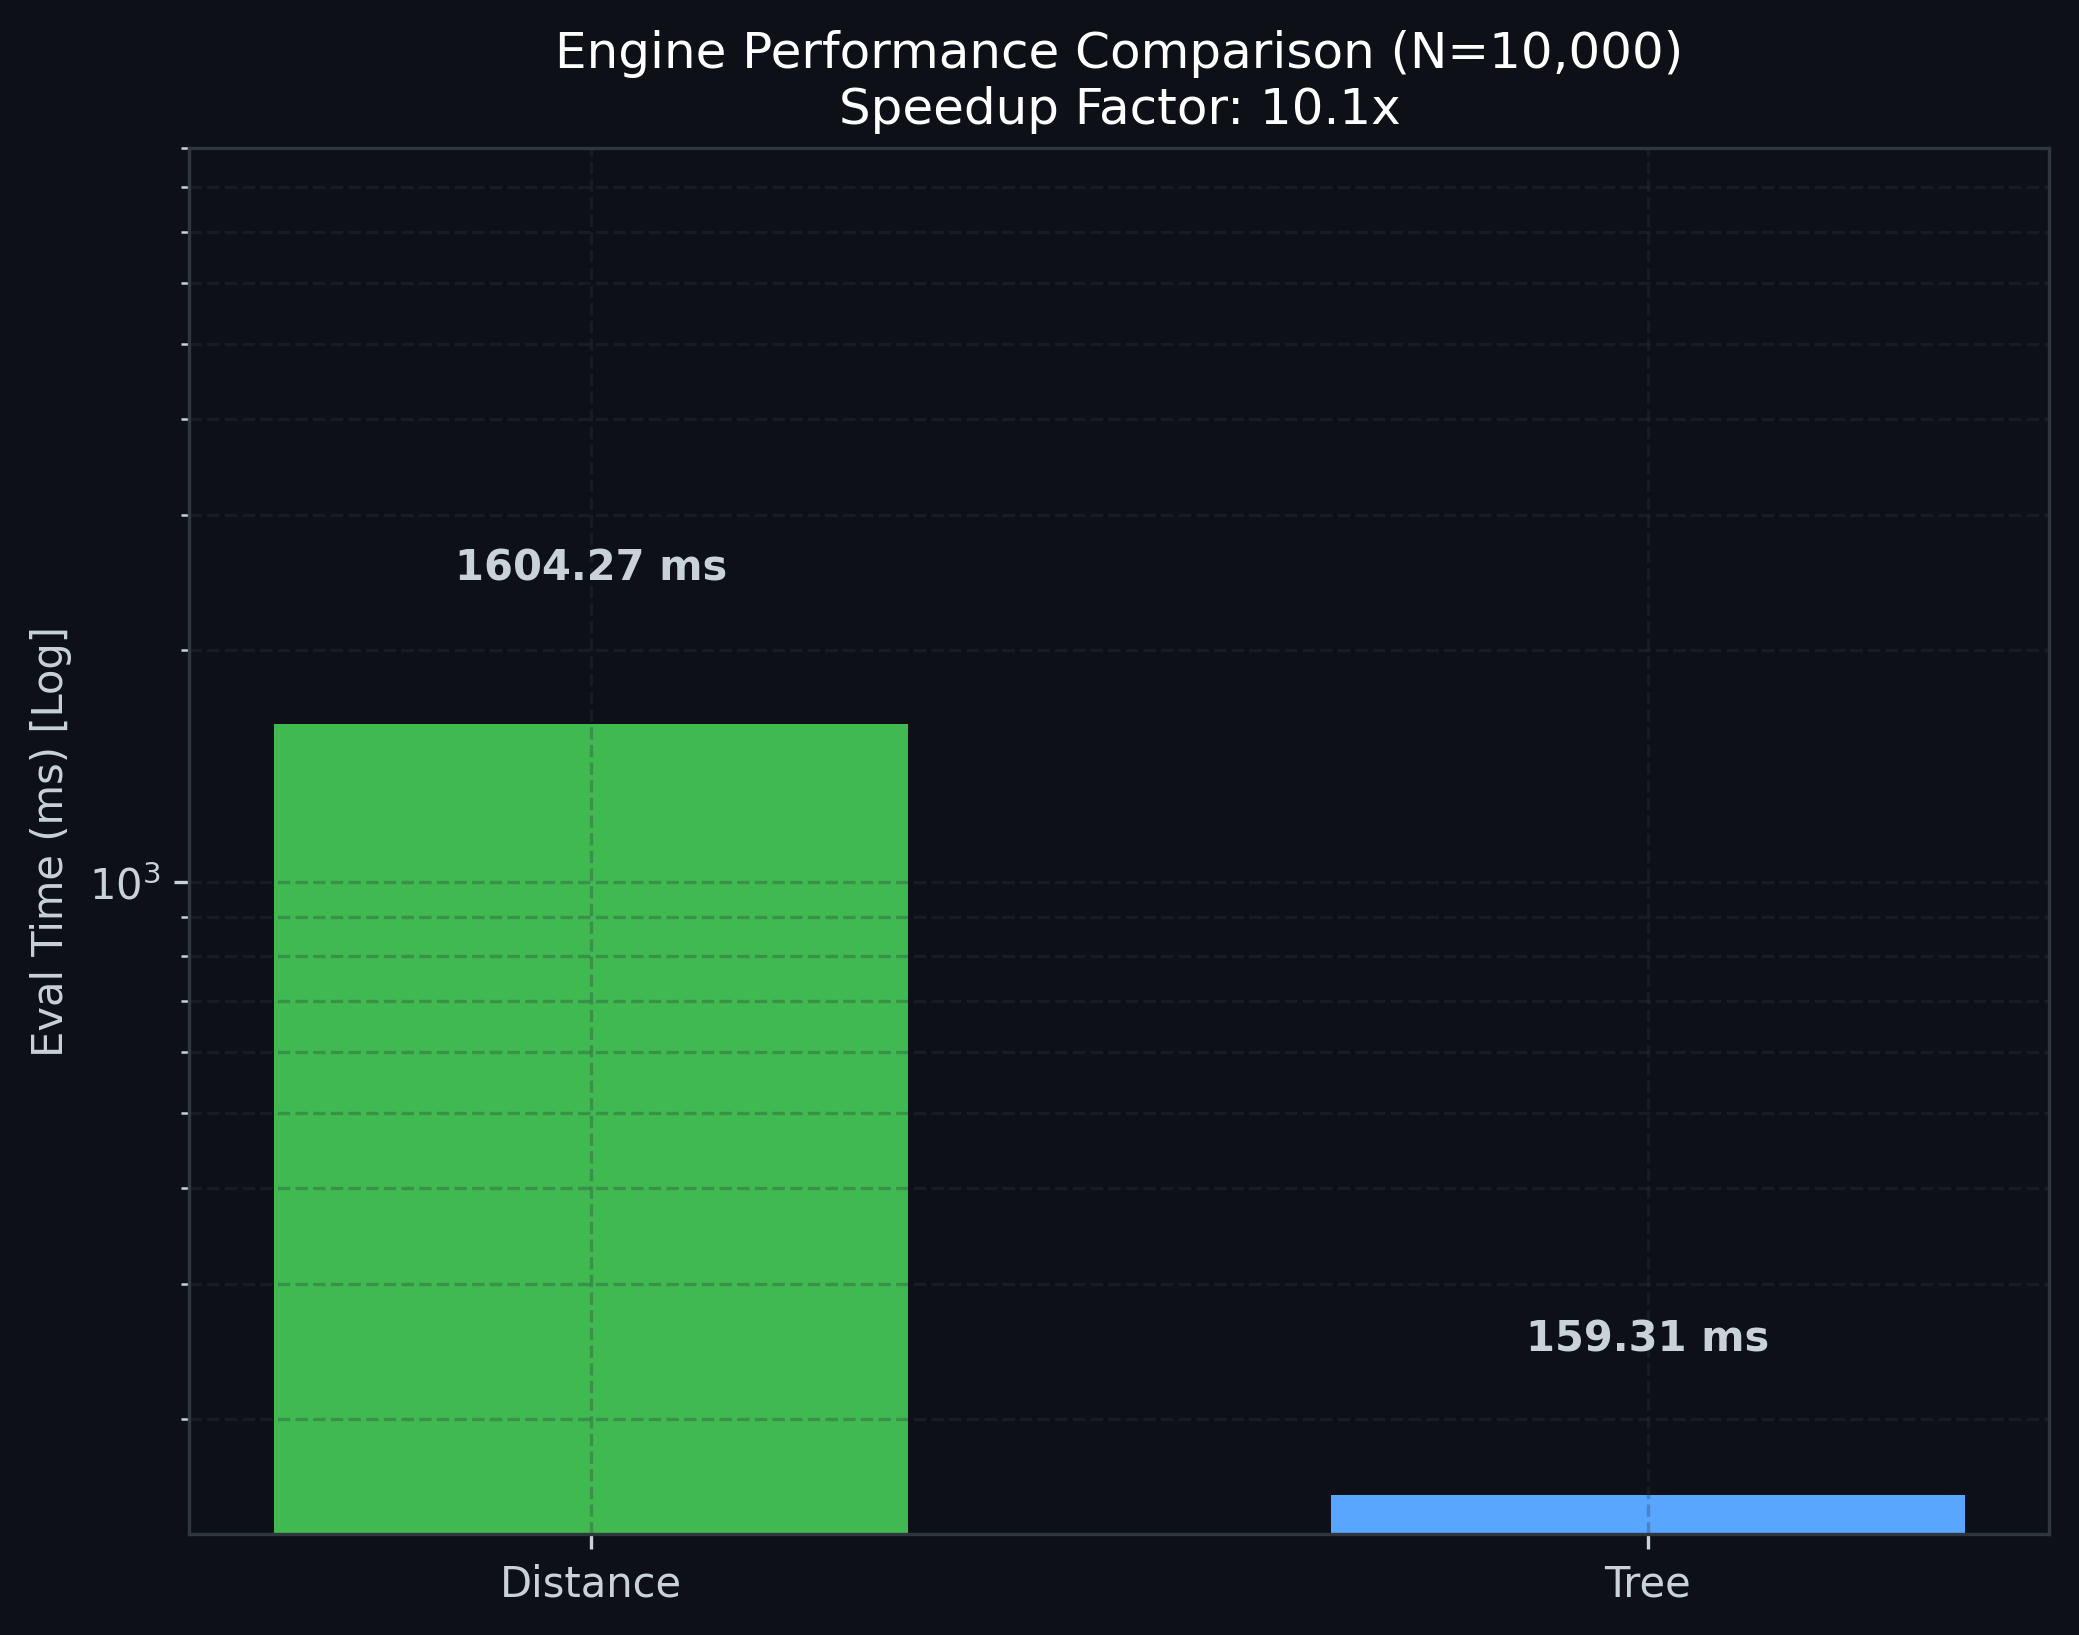
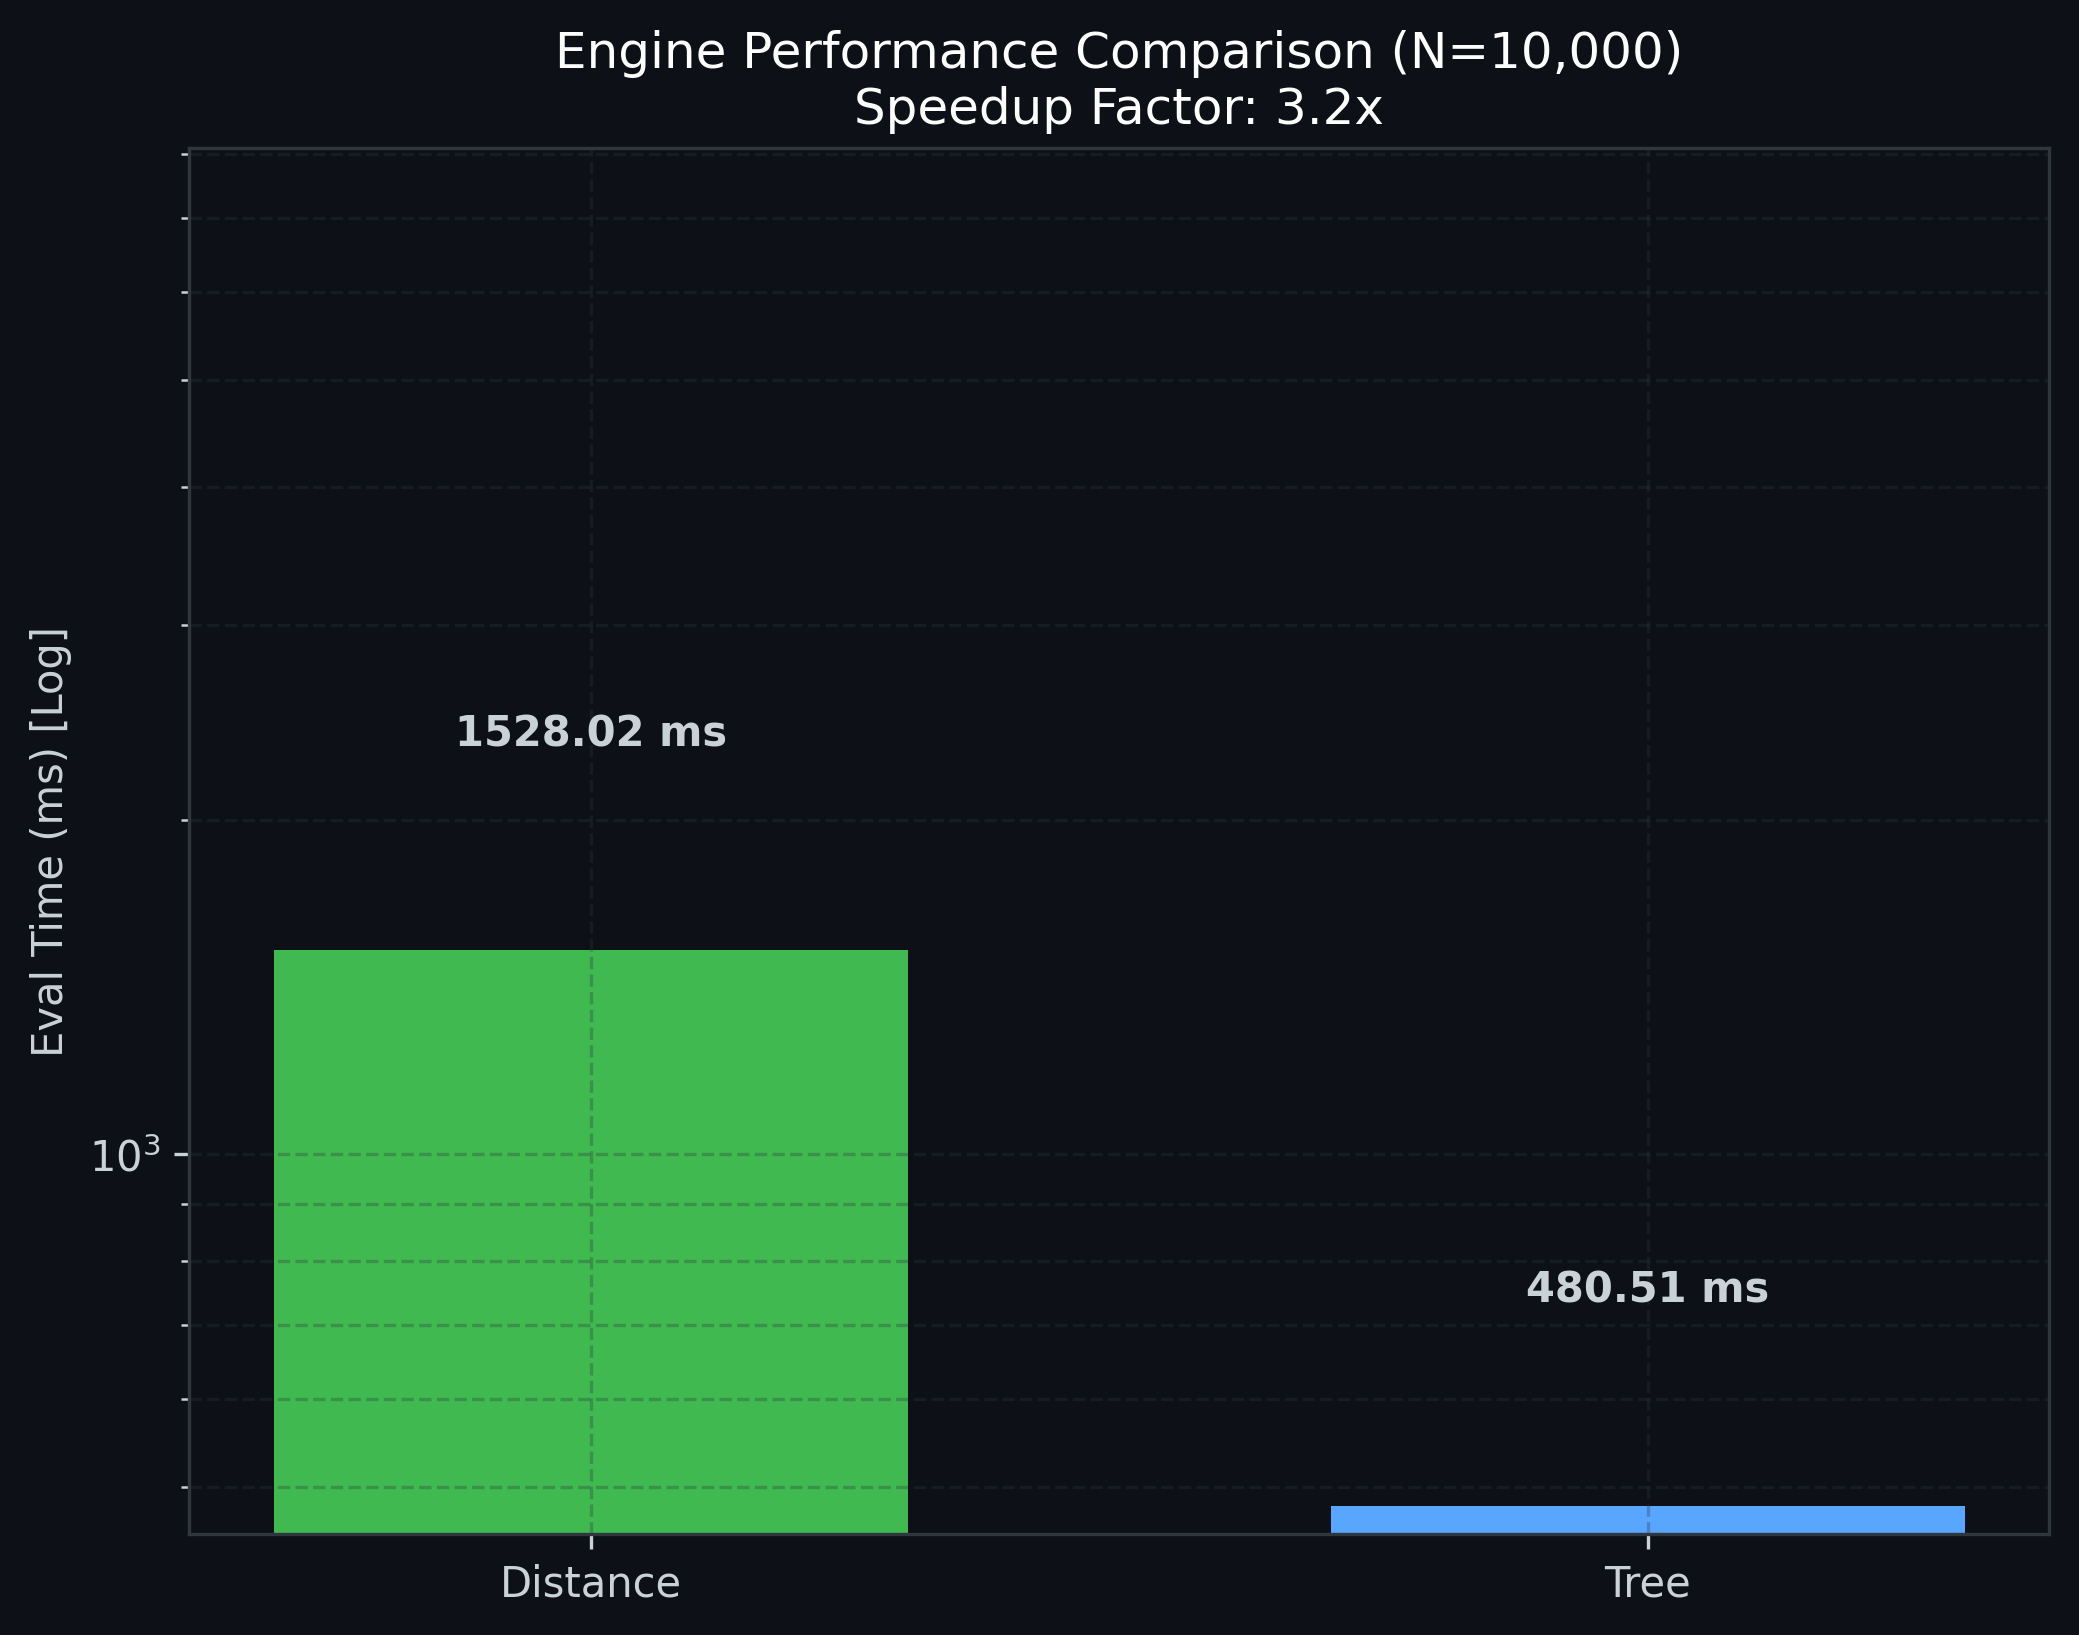
Unified master benchmark suite and updated all 10 thesis figures (A-E)

diff --git a/examples/master_benchmark.py b/examples/master_benchmark.py
@@ -141,13 +141,48 @@ def run_all_benchmarks():
         
         # GMM
         t0 = time.time()
-        _, _, g_mean, g_cov, g_weight = test_gmm_components(data, component_min=1, component_max=8)
+        _, _, g_mean, g_cov, g_weight = test_gmm_components(data, component_min=1, component_max=8, reg_covar=0.1)
         t_init_gmm = (time.time() - t0) * 1000
         results['GMM']['init'].append(t_init_gmm)
         t_gmm = timeit.timeit(lambda: _compute_nb_gmm_cpu(model, g_mean, g_cov, g_weight), number=eval_iterations) / eval_iterations * 1000
         results['GMM']['eval'].append(t_gmm)
 
     return results
+
+def run_gmm_init_benchmark(base_xyz, data_sizes):
+    """Measures BIC selection time for GMM across sizes."""
+    points = []
+    times = []
+    for size in data_sizes:
+        print(f"GMM Init Benchmark: N={size}...")
+        if size > len(base_xyz):
+            indices = np.random.choice(len(base_xyz), size=size, replace=True)
+        else:
+            indices = np.random.choice(len(base_xyz), size=size, replace=False)
+        data = base_xyz[indices]
+        
+        t0 = time.time()
+        test_gmm_components(data, component_min=1, component_max=8, reg_covar=0.1)
+        times.append(time.time() - t0)
+        points.append(size)
+    return {'points': points, 'time': times}
+
+def run_radius_benchmark(base_xyz, base_sigma):
+    """Measures Tree scaling across search radii at fixed N=5,000."""
+    N_FIXED = 5000
+    radii = [1, 2, 5, 10, 15, 20, 30, 50, 100, 200]
+    indices = np.random.choice(len(base_xyz), size=N_FIXED, replace=False)
+    data = base_xyz[indices]
+    variances = base_sigma[indices] ** 2 if base_sigma is not None else np.ones(N_FIXED)
+    model = generate_synthetic_data(128)
+    
+    times = []
+    print(f"Radius Sensitivity Benchmark (N={N_FIXED})...")
+    for r in radii:
+        t_r = timeit.timeit(lambda: computescoretree(None, None, data, variances, searchradius=r, model_coords_override=model), number=20) / 20 * 1000
+        times.append(t_r)
+        print(f"  Radius: {r:>3} nm | Time: {t_r:7.2f} ms")
+    return {'radii': radii, 'times': times}
 
 # =============================================================================
 # PLOTTING FUNCTIONS
@@ -322,7 +357,21 @@ def save_summary_table(results, output_dir):
 # =============================================================================
 if __name__ == "__main__":
     warmup()
+    
+    # Load experimental data for specialized sub-benchmarks
+    THIS_DIR = os.path.abspath(os.path.dirname(__file__))
+    THESIS_ROOT = os.path.abspath(os.path.join(THIS_DIR, "..", ".."))
+    csv_path = os.path.join(THESIS_ROOT, "smlm_score", "examples", "ShareLoc_Data", "data.csv")
+    raw_df = read_experimental_data(csv_path)
+    base_xyz, base_sigma, _, _, _ = flexible_filter_smlm_data(
+        raw_df, filter_type='cut', x_cut=(10000, 12000), y_cut=(0, 5000), fill_z_value=0.0
+    )
+
+    # Run benchmarks
     data_results = run_all_benchmarks()
+    data_results['GMM_scaling'] = run_gmm_init_benchmark(base_xyz, data_results['sizes'])
+    data_results['Radius'] = run_radius_benchmark(base_xyz, base_sigma)
+
     figures_dir = os.path.join(THESIS_ROOT, "smlm_score", "examples", "figures", "benchmarks")
     os.makedirs(figures_dir, exist_ok=True)
     
@@ -330,6 +379,9 @@ if __name__ == "__main__":
         print(f"\nGenerating {theme} theme figures...")
         plot_fig_a(data_results, figures_dir, theme)
         plot_fig_b(data_results, figures_dir, theme)
+        plot_fig_c(data_results, figures_dir, theme)
+        plot_fig_d(data_results, figures_dir, theme)
+        plot_fig_e(data_results, figures_dir, theme)
     
     save_summary_table(data_results, figures_dir)
-    print("\nMaster Benchmark Complete. Figures and Table generated in examples/figures/benchmarks/")
+    print("\nMaster Benchmark Complete. All 5 Figures and Table generated in examples/figures/benchmarks/")

diff --git a/docs/scoring_models.md b/docs/scoring_models.md
@@ -1,35 +1,114 @@
 # Scoring Models and Mathematical Formulations
 
-This document details the mathematical implementation of the scoring functions in the SMLM-IMP pipeline. All scores are fundamentally derived from Gaussian log-likelihoods.
+This document summarizes the mathematical interpretation of the scoring functions currently implemented in the SMLM-IMP pipeline. All three scores are derived from Gaussian likelihood ideas, but they differ in how the experimental data and the structural model are represented and compared.
 
-## 1. Distance & Tree Scoring
-Both models assume that each experimental SMLM localization $\mathbf{x}_D$ is a sample from a multivariate Gaussian distribution centered at some unknown model point $\mathbf{x}_M$.
+## 1. Distance and Tree Scoring
 
-### Formulation
-The score for a single data point $\mathbf{x}_D$ against the entire model $M$ is computed as the log-sum-exp of individuals Gaussian terms:
-$$ \mathcal{S}(\mathbf{x}_D | M) = \ln \left( \sum_{j \in M} \frac{w_D}{\sqrt{(2\pi)^3 |\Sigma|}} \exp\left( -0.5 (\mathbf{x}_D - \mathbf{x}_{M,j})^\top \Sigma^{-1} (\mathbf{x}_D - \mathbf{x}_{M,j}) \right) \right) $$
-Where:
-- $\Sigma = \Sigma_D + \Sigma_M$ is the combined covariance (data uncertainty + model uncertainty).
-- $\Sigma_M$ is currently a fixed heuristic $\sigma_{av}^2 \mathbf{I}$, where $\sigma_{av} = 8.0 \text{ \AA}$.
+The Distance and Tree scores share the same likelihood structure. For each experimental localization $\mathbf{x}_D$, the model is treated as a discrete set of candidate fluorophore positions $\mathbf{x}_{M,j}$. The contribution of one data point is computed as a log-sum-exp over model points:
 
-### Implementation Differences
-- **Distance Score**: Computes the full $O(N \cdot M)$ pairwise interaction.
-- **Tree Score**: Uses an `sklearn.KDTree` to approximate the log-sum-exp by evaluating only the $K$-nearest neighbors within a specified search radius. This provides a $\sim 10,000\times$ speedup for large datasets.
+$$
+\mathcal{S}(\mathbf{x}_D \mid M)
+=
+\ln \left(
+\sum_{j \in M}
+\frac{w_D}{\sqrt{(2\pi)^3 \lvert \Sigma \rvert}}
+\exp\left[
+-\frac{1}{2}
+(\mathbf{x}_D - \mathbf{x}_{M,j})^\top
+\Sigma^{-1}
+(\mathbf{x}_D - \mathbf{x}_{M,j})
+\right]
+\right)
+$$
 
-## 2. GMM Scoring (Density Overlap)
-The GMM score treats the data as a Gaussian Mixture Model $G_D$ and calculates the log-likelihood of model points $M$ under this mixture.
+with
 
-$$ \mathcal{S}_{GMM} = \sum_{j \in M} \ln \left( \sum_{k \in G_D} \pi_k \mathcal{N}(\mathbf{x}_{M,j} | \mu_k, \Sigma_k) \right) $$
+$$
+\Sigma = \Sigma_D + \Sigma_M
+$$
 
-### Known Limitations
-- **Heuristic Nature**: The current implementation fits a single global GMM to the data. It is highly sensitive to the initial alignment and the choice of the number of components (optimized via BIC).
-- **Asymmetry**: Unlike a true symmetric overlap integral, the current code evaluates model points against the data GMM components.
+where:
+
+- $\Sigma_D$ is the covariance associated with the experimental localization.
+- $\Sigma_M$ is the model-side covariance.
+- $w_D$ is an optional data-point weight.
+
+At present, the model covariance is approximated by a fixed isotropic term:
+
+$$
+\Sigma_M = \sigma_{av}^2 \mathbf{I}
+$$
+
+with $\sigma_{av} = 8.0$ in the current implementation.
+
+### Distance Score
+
+The Distance score evaluates the full pairwise relation between all data points and all model points, with direct complexity $O(NM)$.
+
+### Tree Score
+
+The Tree score preserves the same likelihood interpretation but accelerates evaluation by using a KD-tree to restrict the candidate set. In the current implementation, small systems are evaluated exactly, whereas larger systems use radius-based candidate selection. The Tree score is therefore primarily a computational acceleration of the same underlying Gaussian likelihood idea.
+
+## 2. Current GMM Score
+
+The current GMM score represents the experimental data as a Gaussian Mixture Model and evaluates the model point cloud under this mixture:
+
+$$
+\mathcal{S}_{GMM}
+=
+\sum_{j \in M}
+\ln \left(
+\sum_{k \in G_D}
+\pi_k\,
+\mathcal{N}(\mathbf{x}_{M,j} \mid \mu_k, \Sigma_k + \Sigma_M)
+\right)
+$$
+
+where:
+
+- $\pi_k$ is the weight of data component $k$,
+- $\mu_k$ and $\Sigma_k$ are the mean and covariance of component $k$,
+- $\Sigma_M$ is the model-side covariance, currently still treated heuristically.
+
+This formulation is best interpreted as a **point-cloud likelihood under a data-derived mixture model**. Compared with the earlier implementation, the important improvement is that the GMM is now treated as a true mixture: the component contributions are summed first and the logarithm is applied afterward.
+
+### Important Limitation
+
+The current GMM implementation remains asymmetric:
+
+- the **data** are represented as a Gaussian mixture,
+- the **model** is represented as points with a heuristic covariance term.
+
+Accordingly, the current method is still:
+
+```text
+model point cloud under data density
+```
+
+rather than:
+
+```text
+model density against data density
+```
+
+For a fuller discussion of the old formulation, the current state, and the longer-term target, see [GMM Overview and Roadmap](gmm_overview_and_roadmap.md).
 
 ## 3. Heuristic Assumptions
-The following parameters are currently set to fixed "expert" values based on the bachelor thesis findings:
-- **$\sigma_{av} = 8.0 \text{ \AA}$**: Representing the fixed standard deviation of the Accessible Volume (AV) positions.
-- **Amplitude-to-Variance**: Data precision $\sigma_D$ is estimated from the localization amplitude $A$ as $\sigma_D \approx 1/\sqrt{A}$.
-- **Unit Consistency**: Internal scoring typically operates in Ångstroms, while input data is often in nanometers. The pipeline handles this conversion in the `ScoringRestraintWrapper` scaling parameter (default $0.1$).
+
+Several quantities are still represented by practical approximations rather than experimentally calibrated or AV-derived estimates.
+
+- **Fixed model uncertainty**: $\sigma_{av} = 8.0$ is currently used as a global model-side standard deviation.
+- **Amplitude-to-variance conversion**: experimental precision is approximated from localization amplitude as $\sigma_D \approx 1/\sqrt{A}$.
+- **Unit conversion**: structural coordinates are typically in Angstroms, whereas experimental data are often in nanometers. The default conversion is handled through the `ScoringRestraintWrapper` scaling parameter (`0.1`).
+
+## 4. Recommended Scientific Interpretation
+
+For scientific writing, the current methods are most accurately described as follows:
+
+- **Distance** and **Tree** implement Gaussian point-to-point likelihood models, with Tree providing a spatially accelerated evaluation strategy.
+- **GMM** implements an asymmetric point-cloud likelihood model in which model points are evaluated under a GMM fitted to the experimental data.
+
+The current GMM implementation should not yet be described as a full symmetric density-overlap formalism. That fuller target would require probabilistic representations on both the model side and the data side.
 
 > [!WARNING]
-> The `sigma_av` value is a heuristic. Future iterations should derive this value from the specific AV linker lengths and radii defined in `av_parameter.json`.
+> The present `sigma_av` value is a heuristic and should ideally be replaced by AV-derived covariance estimates in future iterations.

diff --git a/examples/figures/benchmarks/benchmark_summary_table.md b/examples/figures/benchmarks/benchmark_summary_table.md
@@ -1,8 +1,8 @@
 # SMLM-IMP Scoring Performance Summary
 | Metric | Distance | Tree (Opt) | GMM |
 | :--- | :---: | :---: | :---: |
-| Eval Latency (N=1k) | 141.563 ms | 42.654 ms | 0.284 ms |
-| Eval Latency (N=10k) | 1533.350 ms | 458.933 ms | 0.285 ms |
-| Initialization (N=1k) | 0.00 ms | 0.94 ms | 56.63 ms |
-| Total MCMC (10k steps) | 1415.63 s | 426.54 s | 2.90 s |
-| Speedup (vs Distance @ 10k) | 1.0x | 3.3x | 5382.1x |
+| Eval Latency (N=1k) | 139.879 ms | 41.462 ms | 0.009 ms |
+| Eval Latency (N=10k) | 1528.025 ms | 480.506 ms | 0.019 ms |
+| Initialization (N=1k) | 0.00 ms | 0.42 ms | 54.27 ms |
+| Total MCMC (10k steps) | 1398.79 s | 414.62 s | 0.15 s |
+| Speedup (vs Distance @ 10k) | 1.0x | 3.2x | 78386.3x |

diff --git a/README.md b/README.md
@@ -39,6 +39,13 @@ pip install -e .
 
 This project was developed with a conda-pack environment (Python 3.11). Core dependencies are listed in `requirements.txt`. The IMP library must be installed separately following the [IMP installation guide](https://integrativemodeling.org/nightly/doc/manual/installation.html).
 
+### Documentation
+
+For mathematical details and current method limitations, see:
+
+- [Scoring Models and Mathematical Formulations](docs/scoring_models.md)
+- [GMM Overview and Roadmap](docs/gmm_overview_and_roadmap.md)
+
 ## Input Data
 
 The following large input files are **not included** in this repository. Download them and place them in the indicated directories:
